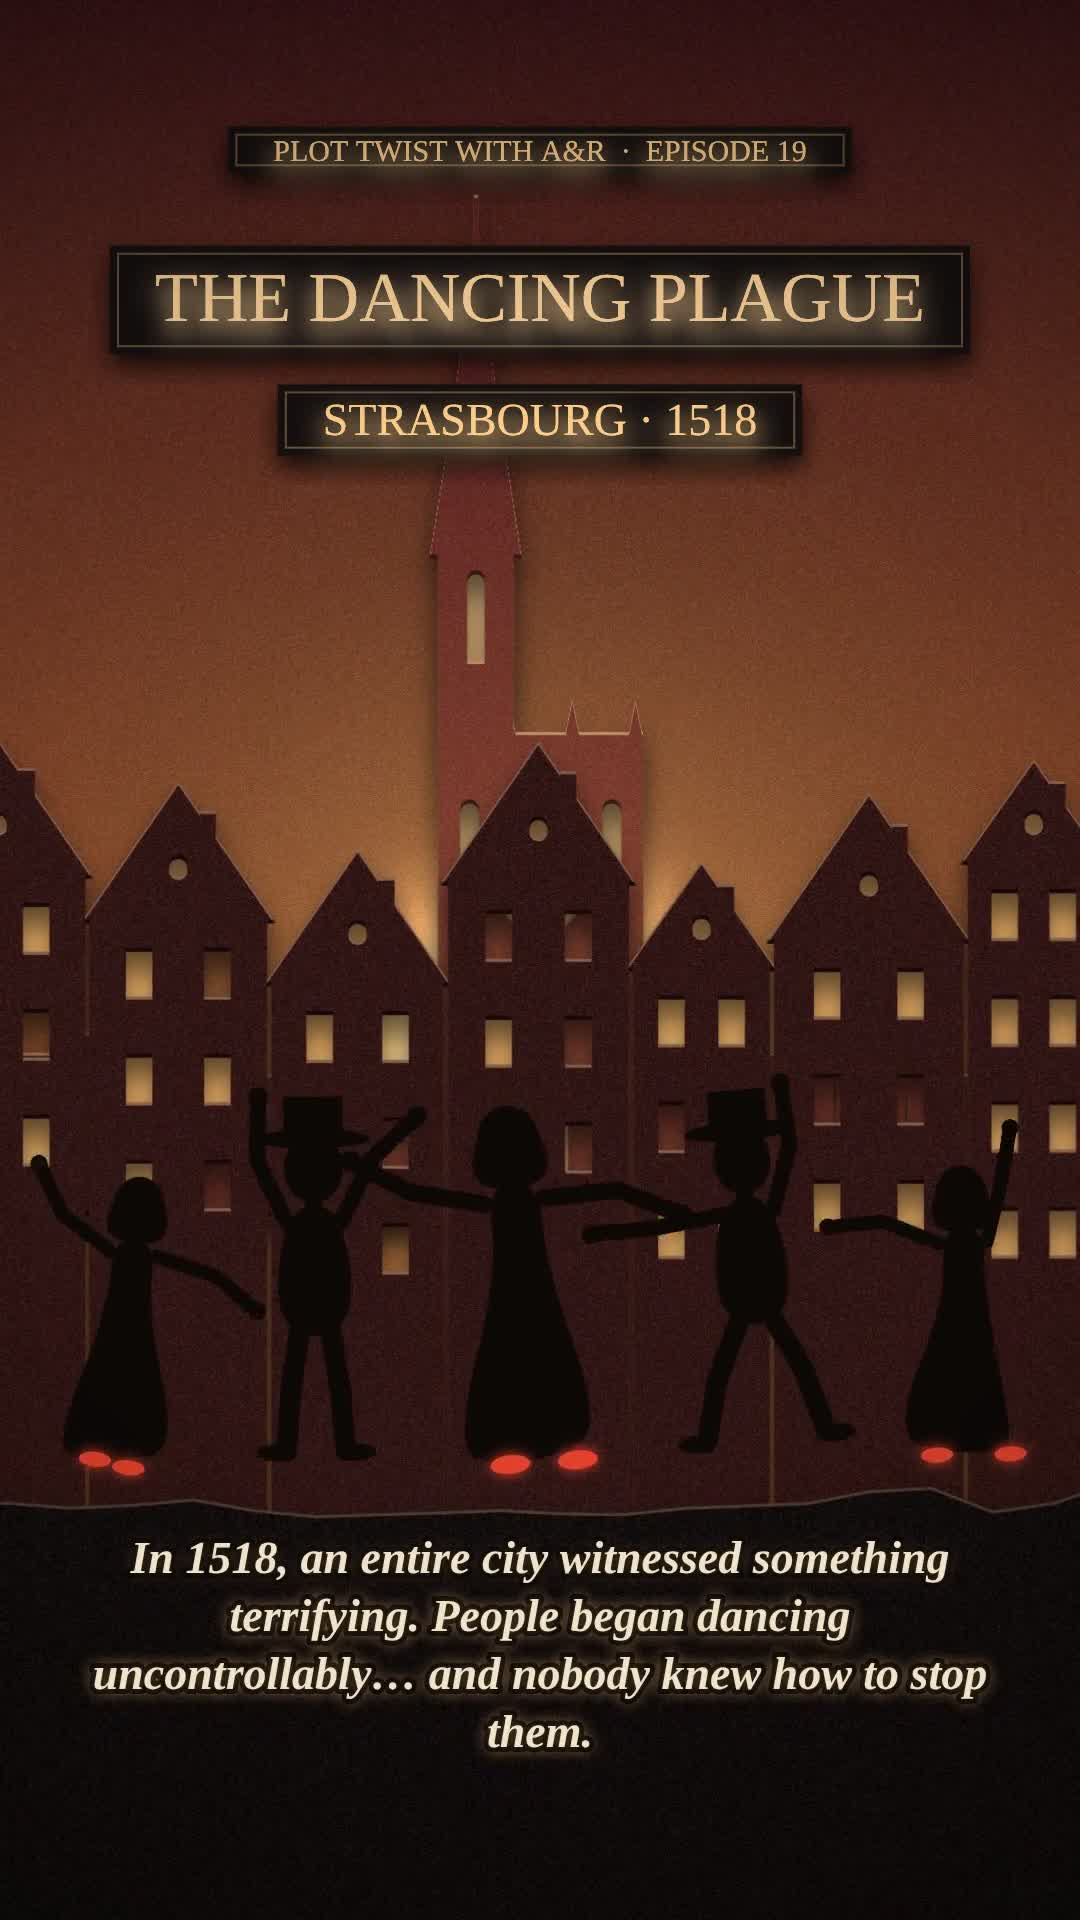
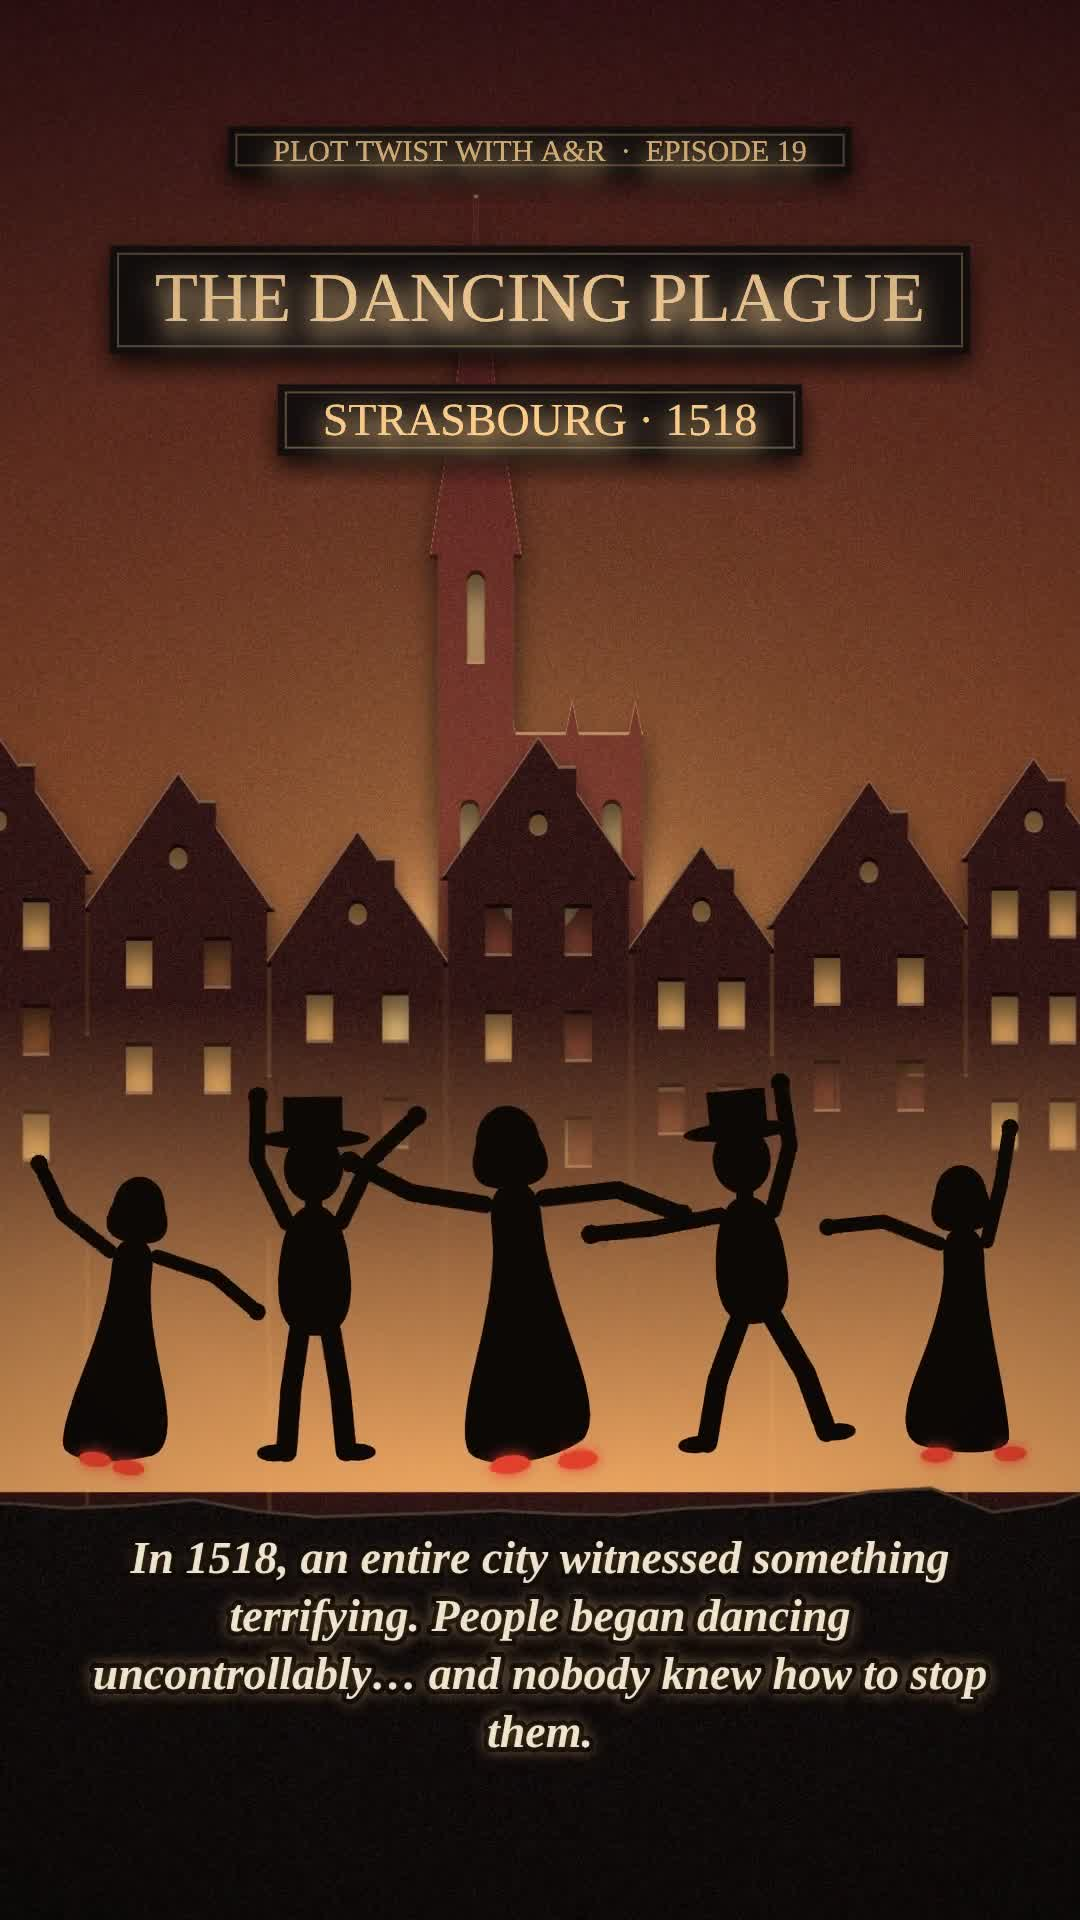
Fix Dancing Plague readability: backlit crowds, physician, pilgrims
- Scenes 1/3: lower the near rooftops and add a backlit street haze behind the
  crowds so the dancer silhouettes read as lit cut paper instead of merging
  into the dark houses.
- Scene 4: replace the egg-shaped physician with a proper Renaissance figure
  (shouldered gown, sleeve, flat bonnet, beard).
- Scene 6: blood-red glow behind the danse macabre so the woman reads.
- Scene 7: pilgrims now walk the ridge line, silhouetted against a lighter sky.
- Poster refreshed from the new render.

Claude-Session: https://claude.ai/code/session_01H7evRcstNP4iNRHt8TaZz2

diff --git a/dancing-plague/film.js b/dancing-plague/film.js
@@ -244,6 +244,7 @@ function cathedral(c, x, base, s) { c.fillRect(x - 130 * s, base - 560 * s, 260 
 function cathBack(c, x, base, s, col, a) { c.save(); c.fillStyle = rgba(col, a); c.beginPath(); c.arc(x, base - 360 * s, 54 * s, 0, TAU); c.fill(); for (const dx of [-90, 90]) { archPath(c, x + dx * s, base - 470 * s, 26 * s, 124 * s); c.fill(); } archPath(c, x - 82 * s, base - 760 * s, 24 * s, 114 * s); c.fill(); archPath(c, x, base - 140 * s, 72 * s, 144 * s); c.fill(); c.restore(); }
 function sunDisc(c, x, y, r, col, a = 1) { bloom(c, c2 => { c2.beginPath(); c2.arc(x, y, r * 1.25, 0, TAU); c2.fill(); }, col, .55 * a, 40); c.save(); c.globalAlpha = a; c.fillStyle = col; c.beginPath(); c.arc(x, y, r, 0, TAU); c.fill(); c.restore(); }
 const starPath = (c, cx, cy, r, n = 5) => { c.beginPath(); for (let i = 0; i <= n * 2; i++) { const a = -Math.PI / 2 + i * Math.PI / n, rr = i % 2 ? r * .42 : r; i ? c.lineTo(cx + Math.cos(a) * rr, cy + Math.sin(a) * rr) : c.moveTo(cx + Math.cos(a) * rr, cy + Math.sin(a) * rr); } c.closePath(); };
+const haze = (y0, y1, col, a) => Ly(c => { }, '#000', .85, { raw: true, front: c => { const g = c.createLinearGradient(0, y0, 0, y1); g.addColorStop(0, rgba(col, 0)); g.addColorStop(.55, rgba(col, a * .6)); g.addColorStop(1, rgba(col, a)); c.fillStyle = g; c.fillRect(-OFF, y0, W + 2 * OFF, y1 - y0); } });
 const night = (c, a) => { if (a <= 0) return; c.save(); c.setTransform(1, 0, 0, 1, 0, 0); c.fillStyle = `rgba(8,10,30,${a})`; c.fillRect(0, 0, W, H); c.restore(); };
 
 // ======================================================= SCENES =======================================================
@@ -252,10 +253,10 @@ addScene(0, 9.77, () => {
   const sky = Ly(SK('#3a0f12', '#f08a3a', [{ x: 540, y: 1040, r: 760, col: 'rgba(255,190,110,.6)' }]), '#000', 0, { raw: true, front: c => sunDisc(c, 540, 1060, 150, '#ffd890') });
   const far = Ly(c => { skylineFar(c, 1180, 18, 60, 160, false); cathedral(c, 540, 1180, .78); }, '#5a1f1c', .25, { glow: { x: 540, y: 1000, r: 600, col: '#ff9a5a', a: .3 } });
   far.back = (c, t) => cathBack(c, 540, 1180, .78, '#ffd08a', .95);
-  const rowA = townRow(5, 1330, -80, 1160, 330, 470), near = Ly(c => drawRow(c, rowA), '#2a0e0c', .55, { rimA: .4 });
+  const rowA = townRow(5, 1240, -80, 1160, 260, 380), near = Ly(c => drawRow(c, rowA), '#2a0e0c', .55, { rimA: .4 });
   near.back = (c, t) => rowBack(c, rowA, '#ffc070', .95, t);
   const crowd = Ly(c => { }, '#000', 1, { raw: true, front: (c, t) => { [[120, 1.05, 0, 0], [320, 1.2, 2.1, 1], [540, 1.3, 4.0, 0], [760, 1.18, 1.1, 1], [960, 1.05, 3.2, 0]].forEach(([x, k, ph, m], i) => dancer(c, x, 1470, k, t, { ph, man: !!m, flip: i % 2 ? -1 : 1, sp: .9 + .08 * i })); } });
-  return { layers: [sky, far, near, crowd, frontBand('#0a0504', 3)], cam: t => ({ x: 0, y: lerp(30, 0, ss(seg(t, 0, 9.77))), z: lerp(1.0, 1.1, ss(seg(t, 0, 9.77))) }),
+  return { layers: [sky, far, near, haze(1020, 1500, '#ffb468', .9), crowd, frontBand('#0a0504', 3)], cam: t => ({ x: 0, y: lerp(30, 0, ss(seg(t, 0, 9.77))), z: lerp(1.0, 1.1, ss(seg(t, 0, 9.77))) }),
     over: (c, t) => { strip(c, t, .1, .9, 'PLOT TWIST WITH A&R  ·  EPISODE 19', 540, 150, 30, { col: '#ffcf8a', font: 'Cormorant Garamond', t1: 9.6 }); strip(c, t, .5, 1.3, 'THE DANCING PLAGUE', 540, 300, 70, { col: '#ffd59a', t1: 9.6 }); strip(c, t, 2.4, 1.0, 'STRASBOURG · 1518', 540, 420, 46, { col: '#ffcf8a', t1: 9.6 }); } };
 });
 // 2 · THE FIRST WOMAN — one woman alone in a narrow lane, unable to stop
@@ -274,12 +275,12 @@ addScene(9.77, 16.73, () => {
 addScene(16.73, 24.1, () => {
   const sky = Ly(SK('#2a0c14', '#d8703a', [{ x: 300, y: 900, r: 600, col: 'rgba(255,170,100,.45)' }]), '#000', 0, { raw: true });
   const far = Ly(c => { skylineFar(c, 1050, 33, 80, 200, false); cathedral(c, 820, 1060, .7); }, '#4a1a1a', .25, { glow: { x: 300, y: 900, r: 600, col: '#ff9a5a', a: .25 } }); far.back = (c, t) => cathBack(c, 820, 1060, .7, '#ffd08a', .9);
-  const rowA = townRow(21, 1250, -80, 1160, 380, 560), houses = Ly(c => drawRow(c, rowA), '#260c0c', .5, { rimA: .35 });
+  const rowA = townRow(21, 1150, -80, 1160, 300, 440), houses = Ly(c => drawRow(c, rowA), '#260c0c', .5, { rimA: .35 });
   houses.back = (c, t) => rowBack(c, rowA, '#ffc070', .95, t, true);   // faces in the windows
   const crowd = Ly(c => { }, '#000', 1, { raw: true, front: (c, t) => { const tr = ss(seg(t, 20.4, 23.0));
     for (let i = 0; i < 8; i++) dancer(c, 80 + i * 132, 1330, .78, t, { ph: i * 1.7, man: i % 3 === 1, flip: i % 2 ? -1 : 1, col: '#1d0b09', tired: tr * .9, sp: .85 + (i % 3) * .1 });
     for (let i = 0; i < 6; i++) dancer(c, 60 + i * 192, 1470, 1.15, t, { ph: i * 2.3 + 1, man: i % 2 === 1, flip: i % 2 ? 1 : -1, tired: tr, sp: .95 + (i % 2) * .1 }); } });
-  return { layers: [sky, far, houses, crowd, frontBand('#0a0504', 11)], cam: t => ({ x: lerp(-24, 24, ss(seg(t, 16.73, 24.1))), y: 0, z: lerp(1.04, 1.1, ss(seg(t, 16.73, 24.1))) }),
+  return { layers: [sky, far, houses, haze(960, 1500, '#ffa860', .92), crowd, frontBand('#0a0504', 11)], cam: t => ({ x: lerp(-24, 24, ss(seg(t, 16.73, 24.1))), y: 0, z: lerp(1.04, 1.1, ss(seg(t, 16.73, 24.1))) }),
     over: (c, t) => strip(c, t, 17.6, .9, 'DOZENS JOIN HER', 540, 250, 46, { col: '#ffd59a', t1: 20.6 }) };
 });
 // 4 · THE DOCTORS — a blazing sun, a physician reading his flask; then night, and the stars
@@ -292,11 +293,11 @@ addScene(24.1, 31.55, () => {
   const far = Ly(c => { skylineFar(c, 1180, 41, 60, 170, false); cathedral(c, 240, 1180, .6); }, '#4a1c18', .3); far.back = (c, t) => cathBack(c, 240, 1180, .6, '#ffd08a', .85);
   const doc = Ly(c => { }, '#000', 1, { raw: true, front: (c, t) => {   // the physician: long robe, round cap, flask raised to the light
     c.save(); c.translate(340, 1470); c.scale(1.9, 1.9); c.fillStyle = '#0c0806'; c.strokeStyle = '#0c0806'; c.lineCap = 'round';
-    blob(c, [[-34, -200], [34, -200], [62, 0], [-62, 0]]); c.fillRect(-7, -214, 14, 16); c.beginPath(); c.ellipse(0, -234, 25, 29, 0, 0, TAU); c.fill(); blob(c, [[-22, -224], [24, -224], [16, -186], [0, -176], [-16, -186]]);
-    blob(c, [[-30, -250], [-24, -282], [0, -292], [24, -282], [30, -250]]); c.lineWidth = 13; c.beginPath(); c.moveTo(22, -190); c.lineTo(70, -232); c.lineTo(96, -290); c.stroke(); c.beginPath(); c.moveTo(-22, -190); c.lineTo(-34, -120); c.stroke(); c.restore();
+    poly0(c, [[-30, -206], [30, -206], [50, -186], [56, -120], [70, 0], [-70, 0], [-56, -120], [-50, -186]]); c.fill(); poly0(c, [[-50, -186], [-70, -110], [-48, -100], [-40, -150]]); c.fill(); c.fillRect(-7, -218, 14, 16); c.beginPath(); c.ellipse(0, -238, 23, 27, 0, 0, TAU); c.fill(); poly0(c, [[-20, -228], [20, -228], [14, -196], [0, -186], [-14, -196]]); c.fill();
+    c.beginPath(); c.ellipse(0, -262, 44, 11, 0, 0, TAU); c.fill(); c.fillRect(-28, -284, 56, 24); c.beginPath(); c.ellipse(0, -284, 28, 7, 0, 0, TAU); c.fill(); c.lineWidth = 22; c.beginPath(); c.moveTo(34, -190); c.lineTo(72, -232); c.stroke(); c.lineWidth = 12; c.beginPath(); c.moveTo(72, -232); c.lineTo(96, -290); c.stroke(); c.restore();
     const fx = 340 + 96 * 1.9, fy = 1470 - 318 * 1.9; c.save(); c.fillStyle = '#ffd27a'; c.shadowColor = '#ffb040'; c.shadowBlur = 30 * flick(t); c.beginPath(); c.ellipse(fx, fy, 34, 40, 0, 0, TAU); c.fill(); c.fillRect(fx - 10, fy - 70, 20, 36); c.restore();
     dancer(c, 860, 1470, .9, t, { ph: 2, flip: -1 }); } });
-  return { layers: [sky, far, doc, frontBand('#0a0504', 13)], cam: t => ({ x: 0, y: 0, z: lerp(1.0, 1.08, ss(seg(t, 24.1, 31.55))) }),
+  return { layers: [sky, far, haze(1100, 1500, '#ffb468', .55), doc, frontBand('#0a0504', 13)], cam: t => ({ x: 0, y: 0, z: lerp(1.0, 1.08, ss(seg(t, 24.1, 31.55))) }),
     over: (c, t) => { strip(c, t, 25.0, .8, 'THE SUMMER HEAT?', 540, 250, 44, { col: '#ffd59a', t1: 27.4 }); strip(c, t, 28.6, .8, 'THE STARS?', 540, 250, 44, { col: '#f2e2b0', t1: 31.4 }); } };
 });
 // 5 · THE CITY'S RESPONSE — the council's edict nailed up; the drums silenced
@@ -321,19 +322,19 @@ addScene(38.87, 47.18, () => {
   const sky = Ly(SK('#12060a', '#4a1416', [{ x: 540, y: 560, r: 620, col: 'rgba(220,80,60,.4)' }]), '#000', 0, { raw: true, front: c => sunDisc(c, 540, 560, 190, '#e0644a') });
   const far = Ly(c => { skylineFar(c, 1150, 52, 70, 190, false); cathedral(c, 180, 1150, .55); }, '#24090c', .3); far.back = (c, t) => cathBack(c, 180, 1150, .55, '#ff8a60', .7);
   const pair = Ly(c => { }, '#000', 1, { raw: true, front: (c, t) => { const f = ss(seg(t, 42.4, 43.6)); skel(c, 380, 1460, 1.9, t, .3); dancer(c, lerp(700, 760, f), 1460, 1.85, t, { ph: .3, flip: -1, fall: f, tired: f }); } });
-  return { layers: [sky, far, pair, frontBand('#060203', 19)], cam: t => ({ x: 0, y: 0, z: lerp(1.0, 1.1, ss(seg(t, 38.87, 47.18))) }),
+  return { layers: [sky, far, haze(980, 1500, '#e0563c', .7), pair, frontBand('#060203', 19)], cam: t => ({ x: 0, y: 0, z: lerp(1.0, 1.1, ss(seg(t, 38.87, 47.18))) }),
     over: (c, t) => { strip(c, t, 40.6, .8, 'HUNDREDS AFFECTED?', 540, 230, 44, { col: '#ffb8a0', t1: 44.6 }); strip(c, t, 44.9, .8, 'DEATHS · DISPUTED', 540, 230, 50, { col: '#ffd59a', t1: 47.0 }); } };
 });
 // 7 · THE CURSE OF SAINT VITUS — the sufferers carried up the hill to his shrine
 addScene(47.18, 54.09, () => {
-  const sky = Ly(SK('#0c1028', '#3a3a6a', [{ x: 780, y: 520, r: 560, col: 'rgba(255,220,160,.45)' }]), '#000', 0, { raw: true });
+  const sky = Ly(SK('#0c1028', '#5a5288', [{ x: 780, y: 520, r: 620, col: 'rgba(255,220,160,.5)' }, { x: 300, y: 1100, r: 520, col: 'rgba(200,170,230,.35)' }]), '#000', 0, { raw: true });
   const hills = Ly(c => cloudBand(c, 980, 61, 120), '#1a1a34', .25);
   const hill = Ly(c => { poly0(c, [[-OFF, 1600], [-OFF, 1300], [400, 1000], [780, 760], [W + OFF, 700], [W + OFF, 1600]]); c.fill(); c.fillRect(700, 520, 170, 260); poly0(c, [[690, 525], [785, 420], [880, 525]]); c.fill(); c.fillRect(781, 330, 8, 100); c.fillRect(760, 360, 50, 8);
     hole(c, c2 => { archPath(c2, 785, 640, 56, 140); c2.fill(); c2.beginPath(); c2.arc(785, 580, 16, 0, TAU); c2.fill(); }); }, '#0e0c1c', .55, { rimA: .3 });
   hill.back = (c, t) => { c.fillStyle = rgba('#ffd08a', .95 * flick(t)); archPath(c, 785, 640, 60, 144); c.fill(); c.beginPath(); c.arc(785, 580, 18, 0, TAU); c.fill(); };
   const rays = Ly(c => { }, '#000', 1, { raw: true, front: (c, t) => {
     c.save(); c.globalCompositeOperation = 'lighter'; for (let i = 0; i < 16; i++) { const a = -Math.PI + i / 15 * Math.PI, l = 300 + 60 * Math.sin(t * 2 + i); c.strokeStyle = `rgba(255,214,150,${.12 + .06 * Math.sin(t * 3 + i)})`; c.lineWidth = 10; c.beginPath(); c.moveTo(785 + Math.cos(a) * 140, 560 + Math.sin(a) * 140); c.lineTo(785 + Math.cos(a) * l, 560 + Math.sin(a) * l); c.stroke(); } c.restore();
-    for (let i = 0; i < 7; i++) { const u = clamp(((t - 47.18) * .045 + i * .12) % 1), x = lerp(60, 660, u), y = lerp(1310, 820, u) - 4, kk = lerp(.85, .45, u); dancer(c, x, y, kk, t, { man: i % 2 === 1, tired: i % 3 === 0 ? 0 : .85, ph: i * 1.9, lean: .25, shoes: i % 3 === 0 }); } } });
+    for (let i = 0; i < 7; i++) { const u = clamp(((t - 47.18) * .04 + i * .1) % 1), x = lerp(20, 640, u), y = (x < 400 ? lerp(1300, 1000, (x + OFF) / (400 + OFF)) : lerp(1000, 760, (x - 400) / 380)) + 6, kk = lerp(1.05, .6, u); dancer(c, x, y, kk, t, { man: i % 2 === 1, tired: i % 3 === 0 ? 0 : .85, ph: i * 1.9, lean: .25, shoes: i % 3 === 0 }); } } });
   return { layers: [sky, hills, hill, rays, frontBand('#05040c', 23)], cam: t => ({ x: lerp(-20, 20, ss(seg(t, 47.18, 54.09))), y: 0, z: lerp(1.0, 1.08, ss(seg(t, 47.18, 54.09))) }),
     over: (c, t) => strip(c, t, 48.0, .9, 'THE CURSE OF SAINT VITUS', 540, 230, 46, { col: '#ffe2a8', t1: 53.9 }) };
 });
